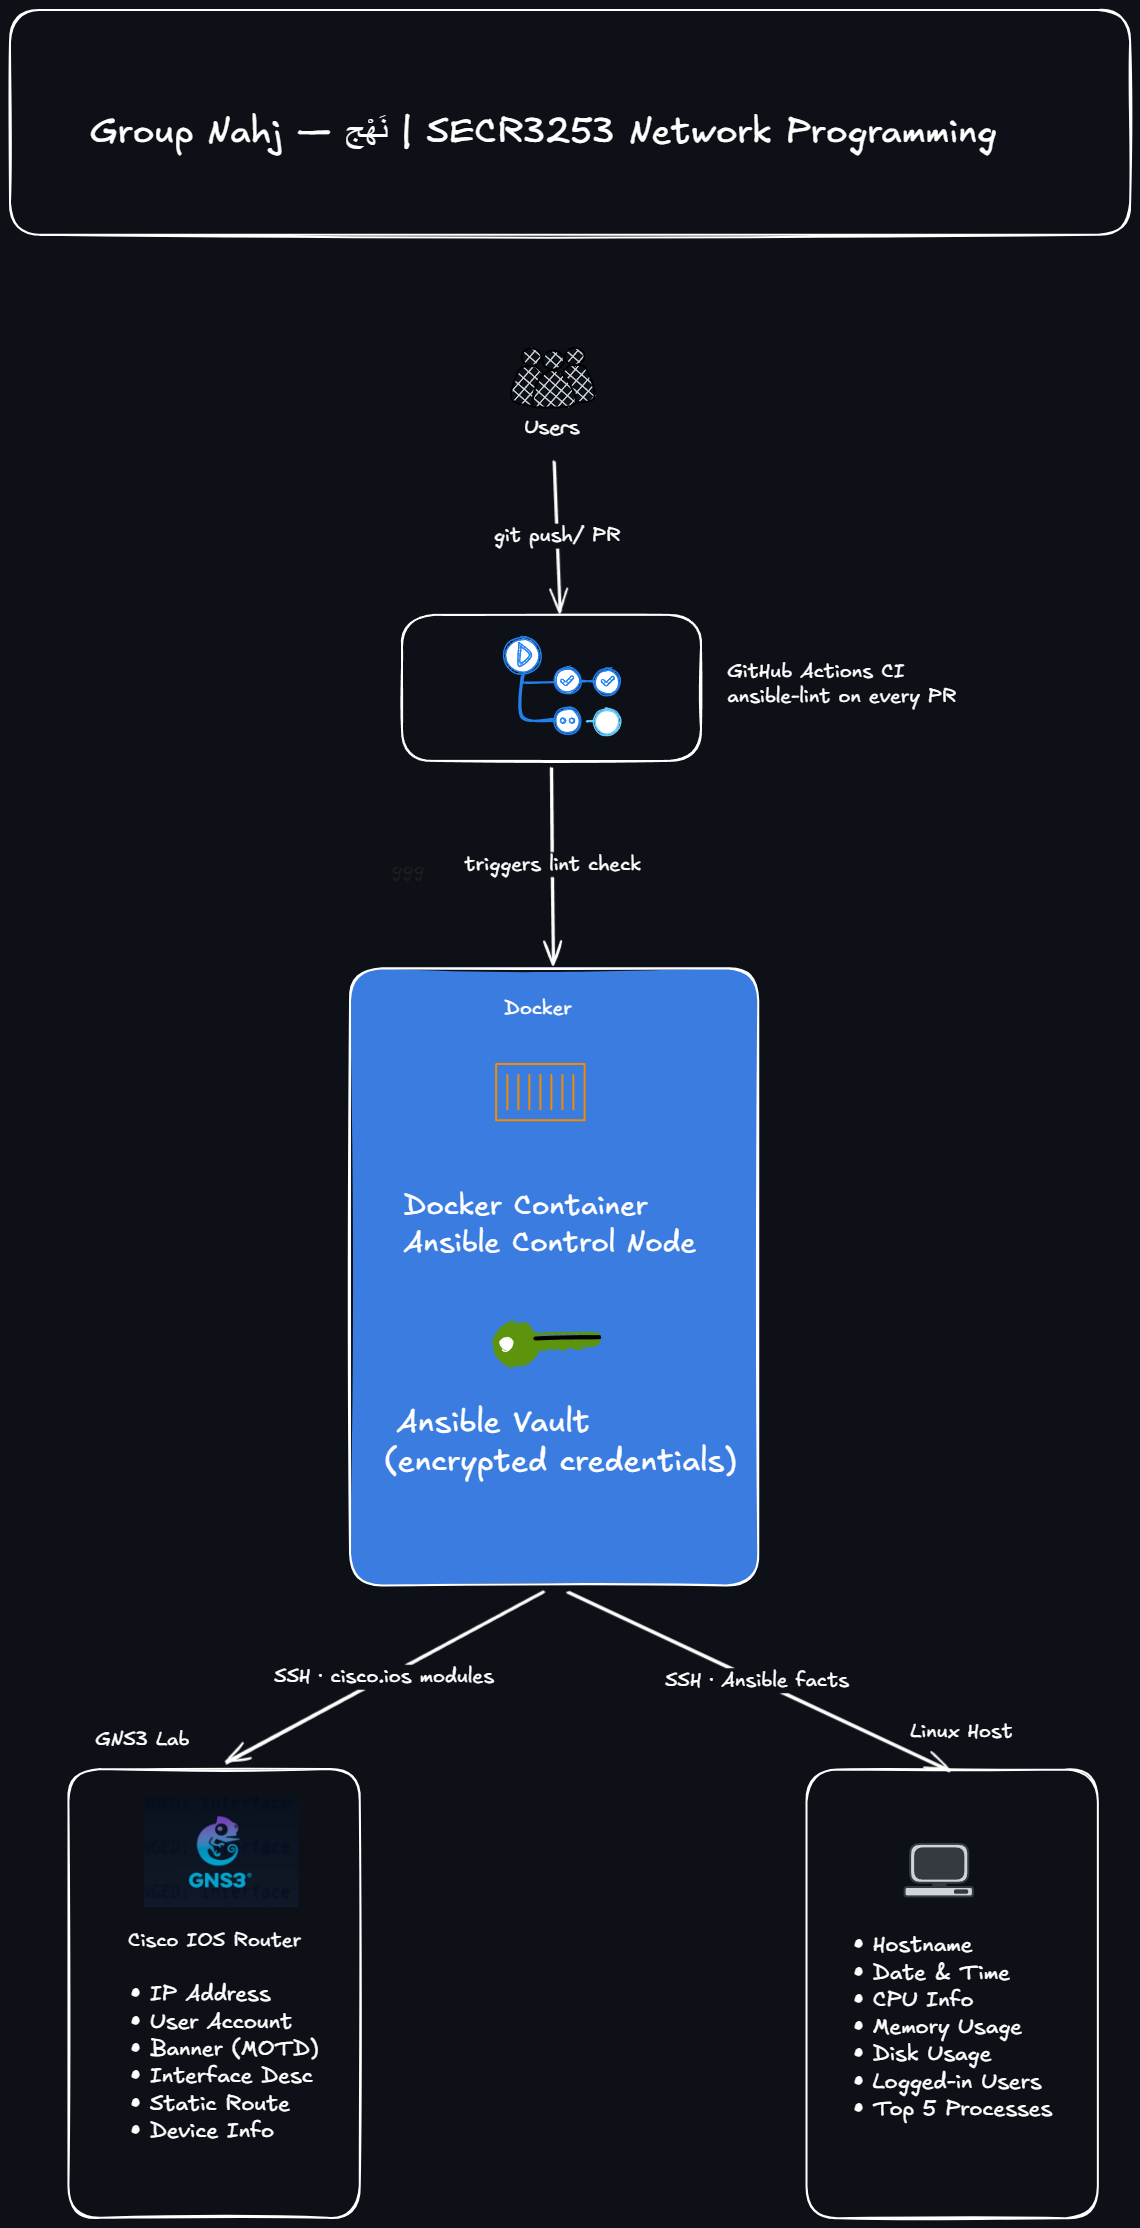
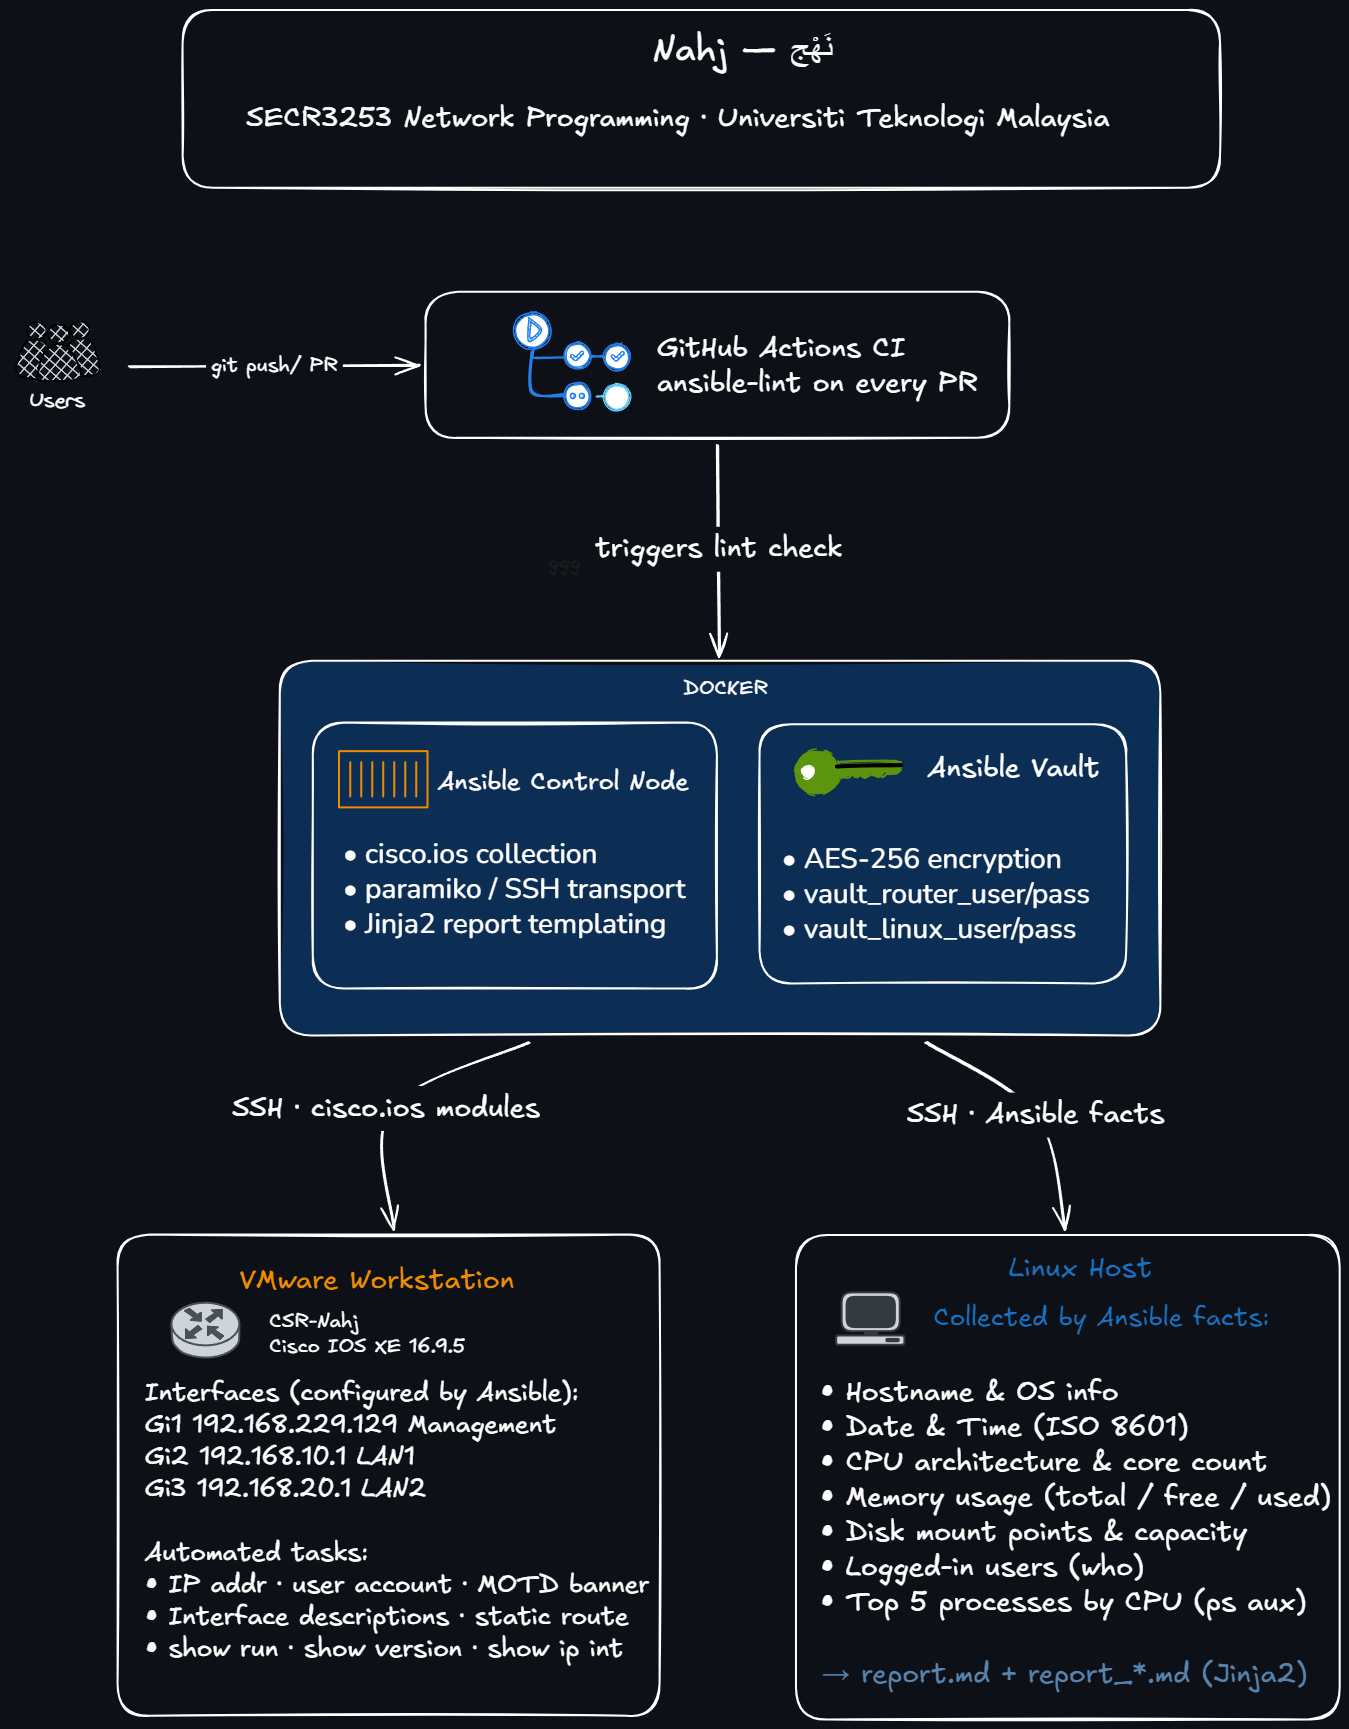
docs: update diagrams and README to reflect real topology

diff --git a/README.md b/README.md
@@ -4,7 +4,8 @@
 
 ![Ansible](https://img.shields.io/badge/Ansible-EE0000?style=flat&logo=ansible&logoColor=white)
 ![Docker](https://img.shields.io/badge/Docker-2496ED?style=flat&logo=docker&logoColor=white)
-![GNS3](https://img.shields.io/badge/GNS3-Network%20Sim-blue?style=flat)
+![VMware](https://img.shields.io/badge/VMware-607078?style=flat&logo=vmware&logoColor=white)
+![GitHub Actions](https://img.shields.io/badge/GitHub_Actions-2088FF?style=flat&logo=githubactions&logoColor=white)
 
 </div>
 
@@ -12,10 +13,11 @@
 
 ## What This Project Does
 
-We are automating two things:
+We automate the configuration and monitoring of a real multi-host network using Ansible — all from a single command inside a Docker container.
 
-1. **Network Device Configuration** — Ansible pushes configuration tasks to a Cisco CSR1000v router running in VMware Workstation
-2. **Linux System Info Collection** — Ansible gathers system details from a Linux host and generates a formatted Markdown report
+1. **Cisco CSR1000v Router** — Ansible configures 3 real GigabitEthernet interfaces, creates a user account, sets a login banner, adds interface descriptions, configures a static route, and retrieves live device info
+2. **Linux Monitoring Host** — Ansible collects hostname, date/time, CPU, memory, disk, logged-in users, and top processes, then generates a Markdown report via Jinja2
+3. **LAN End Devices** — Ansible SSHes into 4 end devices split across two LAN segments (pc1, laptop1 on LAN1 · server1, pc2 on LAN2) and generates a per-device report for each
 
 Credentials are encrypted with **Ansible Vault** — no plain-text passwords anywhere in this repo. A **GitHub Actions CI pipeline** runs `ansible-lint` on every Pull Request before it merges.
 
@@ -39,44 +41,65 @@ Credentials are encrypted with **Ansible Vault** — no plain-text passwords any
 
 ---
 
+## Network Design
+
+| Interface | Subnet | Role |
+|-----------|--------|------|
+| GigabitEthernet1 | 192.168.229.0/24 | Management — Ansible connects here |
+| GigabitEthernet2 | 192.168.10.0/24 | LAN1 — pc1, laptop1 |
+| GigabitEthernet3 | 192.168.20.0/24 | LAN2 — server1, pc2 |
+
+---
+
 ## Team
 
 | Member | Role | Branch |
 |--------|------|--------|
-| Omar *(Leader)* | Docker, repo setup, Ansible Vault, CI pipeline | `feature/setup` |
-| Moqbel | Network config — IP, user account, banner | `feature/net-identity` |
-| Ali | Network config — interface description, static route, device info | `feature/net-routing` |
+| Omar *(Leader)* | Docker, inventory, Ansible Vault, CI pipeline, site.yml | `feature/setup` |
+| Moqbel | Router config — IP addressing, user account, MOTD banner | `feature/net-identity` |
+| Ali | Router config — interface descriptions, static route, device info | `feature/net-routing` |
 | Knan | Linux sysinfo — hostname, date/time, CPU, memory, disk | `feature/linux-facts` |
-| Ahmed | Linux sysinfo — logged-in users, top 5 processes, Jinja2 report | `feature/linux-activity` |
+| Ahmed | Linux sysinfo — logged-in users, top processes, Jinja2 report | `feature/linux-activity` |
 
 ---
 
 ## What Gets Automated
 
-### Part 1 — Cisco CSR1000v (VMware Workstation)
+### Router — Cisco CSR1000v (VMware Workstation)
 
 | Task | Playbook |
 |------|----------|
-| Configure IP address on interface | `playbooks/net_identity.yml` |
-| Create local user account | `playbooks/net_identity.yml` |
-| Set login banner (MOTD) | `playbooks/net_identity.yml` |
-| Add interface description | `playbooks/net_routing.yml` |
-| Add static route | `playbooks/net_routing.yml` |
-| Retrieve device information | `playbooks/net_routing.yml` |
+| Configure IP on GigabitEthernet2 (LAN1) and GigabitEthernet3 (LAN2) | `net_identity.yml` |
+| Create local user account | `net_identity.yml` |
+| Set login banner (MOTD) | `net_identity.yml` |
+| Set interface descriptions on Gi2 and Gi3 | `net_routing.yml` |
+| Add static route (LAN2 via GigabitEthernet3) | `net_routing.yml` |
+| Retrieve show run / show version / show ip int brief | `net_routing.yml` |
 
-### Part 2 — Linux Host
+### Linux Monitoring Host
 
 | Info Collected | Playbook |
-|---------------|----------|
-| Hostname | `playbooks/linux_facts.yml` |
-| Current date and time | `playbooks/linux_facts.yml` |
-| CPU information | `playbooks/linux_facts.yml` |
-| Memory usage | `playbooks/linux_facts.yml` |
-| Disk usage | `playbooks/linux_facts.yml` |
-| Logged-in users | `playbooks/linux_activity.yml` |
-| Top 5 processes by CPU | `playbooks/linux_activity.yml` |
+|----------------|----------|
+| Hostname | `linux_facts.yml` |
+| Date and time | `linux_facts.yml` |
+| CPU architecture and core count | `linux_facts.yml` |
+| Memory usage | `linux_facts.yml` |
+| Disk usage per mount | `linux_facts.yml` |
+| Logged-in users | `linux_activity.yml` |
+| Top 5 processes by CPU | `linux_activity.yml` |
 
-> Output is saved as a formatted `report.md` via a Jinja2 template.
+> Output saved as `playbooks/report.md` via Jinja2 (`templates/report.j2`)
+
+### LAN End Devices (pc1 · laptop1 · server1 · pc2)
+
+| Info Collected | Playbook |
+|----------------|----------|
+| Device role and LAN segment | `lan_devices.yml` |
+| CPU architecture and core count | `lan_devices.yml` |
+| Memory usage | `lan_devices.yml` |
+| Top 3 processes by CPU | `lan_devices.yml` |
+
+> One report per device: `playbooks/report_pc1.md`, `report_laptop1.md`, `report_server1.md`, `report_pc2.md`
 
 ---
 
@@ -84,7 +107,7 @@ Credentials are encrypted with **Ansible Vault** — no plain-text passwords any
 
 - [Git](https://git-scm.com/downloads)
 - [Docker Desktop](https://www.docker.com/products/docker-desktop/) — enable WSL2 on Windows
-- [VMware Workstation](https://www.vmware.com/products/workstation-pro.html) with a Cisco CSR1000v image loaded
+- [VMware Workstation](https://www.vmware.com/products/workstation-pro.html) with Cisco CSR1000v loaded and VMnet2/VMnet3 configured
 
 > Ansible runs inside the Docker container — no local install needed.
 
@@ -96,28 +119,36 @@ Credentials are encrypted with **Ansible Vault** — no plain-text passwords any
 nahj-net-automation/
 ├── .github/
 │   └── workflows/
-│       └── ci.yml               # ansible-lint on every PR
+│       └── ci.yml                   # ansible-lint on every PR
 ├── doc/
 │   ├── assets/
 │   │   ├── banner.jpg
-│   │   └── archet.png
+│   │   ├── archet.png               # architecture diagram
+│   │   └── network topology.png     # network topology diagram
+│   ├── sam/
+│   │   └── CSR1000v_Multi_Interface_Writeup.md
 │   ├── overview.md
 │   └── phases.md
 ├── docker/
-│   └── Dockerfile               # Ansible control node
+│   └── Dockerfile                   # Ansible control node image
 ├── inventory/
-│   └── hosts.yml                # target hosts (no plain-text passwords)
+│   ├── hosts.yml                    # all target hosts
+│   └── group_vars/
+│       └── all/
+│           └── vault.yml            # auto-loaded encrypted vars
 ├── vars/
-│   └── vault.yml                # Ansible Vault encrypted credentials
+│   └── vault.yml                    # Ansible Vault encrypted credentials
 ├── templates/
-│   └── report.j2                # Jinja2 template for sysinfo report
+│   ├── report.j2                    # Jinja2 template — linux_host report
+│   └── device_report.j2             # Jinja2 template — per LAN device report
 ├── playbooks/
-│   ├── site.yml                 # master playbook — runs everything
-│   ├── net_identity.yml         # IP, user, banner
-│   ├── net_routing.yml          # interface desc, static route, device info
-│   ├── linux_facts.yml          # hostname, date/time, CPU, memory, disk
-│   └── linux_activity.yml       # logged-in users, top 5 processes + report
-├── reflections/                 # personal reflection reports
+│   ├── site.yml                     # master playbook — runs everything
+│   ├── net_identity.yml             # router: IP, user, banner
+│   ├── net_routing.yml              # router: descriptions, static route, device info
+│   ├── linux_facts.yml              # linux_host: hostname, CPU, memory, disk
+│   ├── linux_activity.yml           # linux_host: users, processes, report
+│   └── lan_devices.yml              # LAN devices: info collection + per-device reports
+├── reflections/                     # personal reflection PDFs
 └── README.md
 ```
 
@@ -132,7 +163,7 @@ git clone https://github.com/Mhdomer/nahj-net-automation.git
 cd nahj-net-automation
 ```
 
-### 2. Start the Linux target host
+### 2. Start the Linux monitoring host
 
 ```bash
 docker run -d \
@@ -143,25 +174,44 @@ docker run -d \
   -e USER_PASSWORD=group-nahj \
   -p 2222:2222 \
   lscr.io/linuxserver/openssh-server
+
+docker exec nahj-linux apk add python3
 ```
 
-### 3. Start the Cisco router
+### 3. Start the LAN end device containers
 
-Boot your Cisco CSR1000v in VMware Workstation. Once it's up, confirm SSH is reachable on port 22. Update `ansible_host` in `inventory/hosts.yml` to match your router's IP if it differs.
+```bash
+for name_port in "pc1:2223" "laptop1:2224" "server1:2225" "pc2:2226"; do
+  name="${name_port%%:*}"
+  port="${name_port##*:}"
+  docker run -d --name "$name" \
+    -e PUID=1000 -e PGID=1000 \
+    -e PASSWORD_ACCESS=true \
+    -e USER_NAME=nahj \
+    -e USER_PASSWORD=group-nahj \
+    -p "$port":2222 \
+    lscr.io/linuxserver/openssh-server
+  docker exec "$name" apk add python3
+done
+```
 
-### 4. Enter the Ansible control node
+### 4. Start the Cisco CSR1000v
+
+Boot the CSR1000v in VMware Workstation. Confirm it has 3 NICs assigned — VMnet1 (management), VMnet2 (LAN1), VMnet3 (LAN2). Update `ansible_host` in `inventory/hosts.yml` if your router IP differs from `192.168.229.129`.
+
+### 5. Enter the Ansible control node
 
 ```bash
 docker compose run --rm ansible bash
 ```
 
-### 5. Set up the Ansible Vault password
+### 6. Set up the Ansible Vault password
 
 ```bash
 echo "nahj" > /tmp/.vault_pass
 ```
 
-### 6. Run the full automation
+### 7. Run the full automation
 
 ```bash
 ansible-playbook -i inventory/hosts.yml playbooks/site.yml --vault-password-file /tmp/.vault_pass
@@ -171,38 +221,32 @@ Or run a specific playbook:
 
 ```bash
 ansible-playbook -i inventory/hosts.yml playbooks/net_identity.yml --vault-password-file /tmp/.vault_pass
-ansible-playbook -i inventory/hosts.yml playbooks/linux_facts.yml --vault-password-file /tmp/.vault_pass
+ansible-playbook -i inventory/hosts.yml playbooks/lan_devices.yml  --vault-password-file /tmp/.vault_pass
 ```
 
-The report is saved to `playbooks/report.md` after the Linux playbooks run.
+Reports are saved to `playbooks/report.md` and `playbooks/report_<device>.md`.
 
 ---
 
-## Git Workflow
+## Inventory Structure
 
 ```
-main  (protected — no direct pushes)
- ├── feature/setup             ← Omar
- ├── feature/net-identity      ← Moqbel
- ├── feature/net-routing       ← Ali
- ├── feature/linux-facts       ← Knan
- └── feature/linux-activity    ← Ahmed
+all
+├── routers        → cisco_router (CSR-Nahj · 192.168.229.129)
+├── linux          → linux_host   (Docker · port 2222)
+└── lan_devices    → pc1 (2223) · laptop1 (2224) · server1 (2225) · pc2 (2226)
 ```
-
-1. Work on your own branch
-2. Commit regularly — at least 3 commits across different days
-3. Open a Pull Request to `main`
 
 ---
 
 ## CI Pipeline
 
-Every Pull Request triggers a GitHub Actions workflow that runs `ansible-lint` on all playbooks. Fix any lint warnings before requesting a review.
+Every Pull Request triggers a GitHub Actions workflow that runs `ansible-lint` on all playbooks. All playbooks must pass lint before merging to `main`.
 
 ---
 
 ## Course Info
 
-**Course:** SECR3253 Network Programming  
-**University:** Universiti Teknologi Malaysia (UTM)  
+**Course:** SECR3253 Network Programming
+**University:** Universiti Teknologi Malaysia (UTM)
 **Semester:** 2025/2026-2
